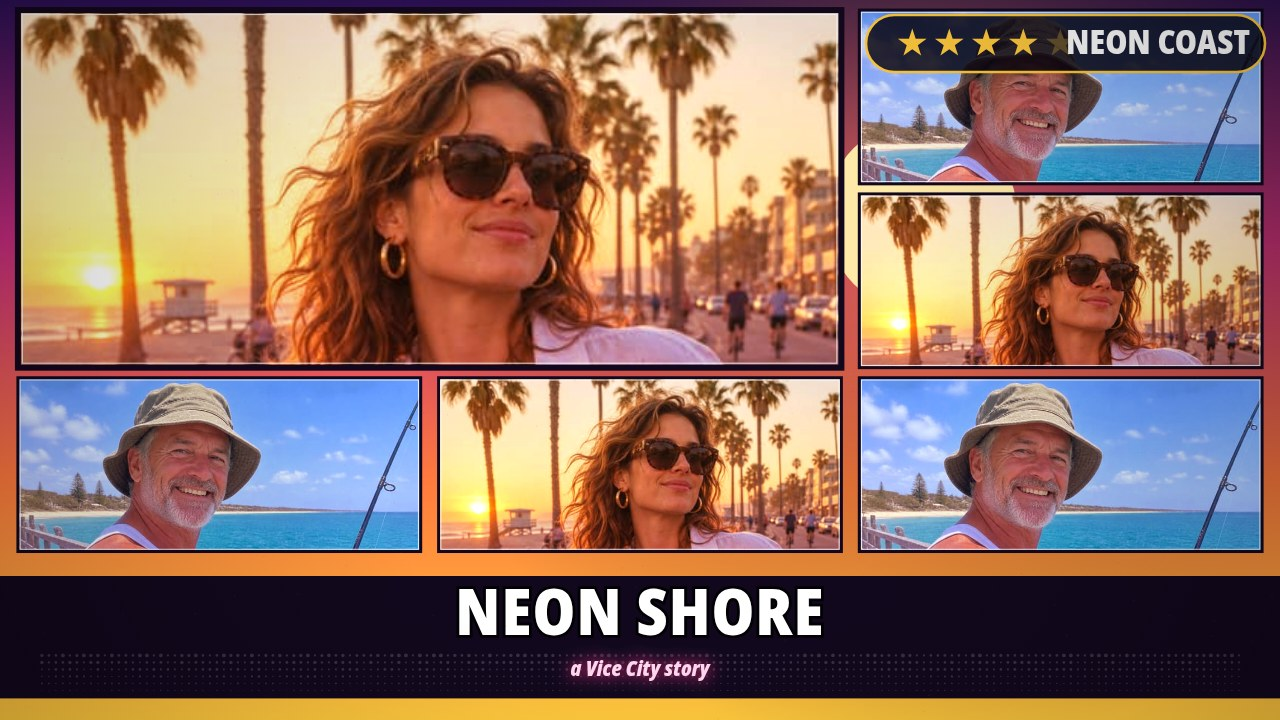
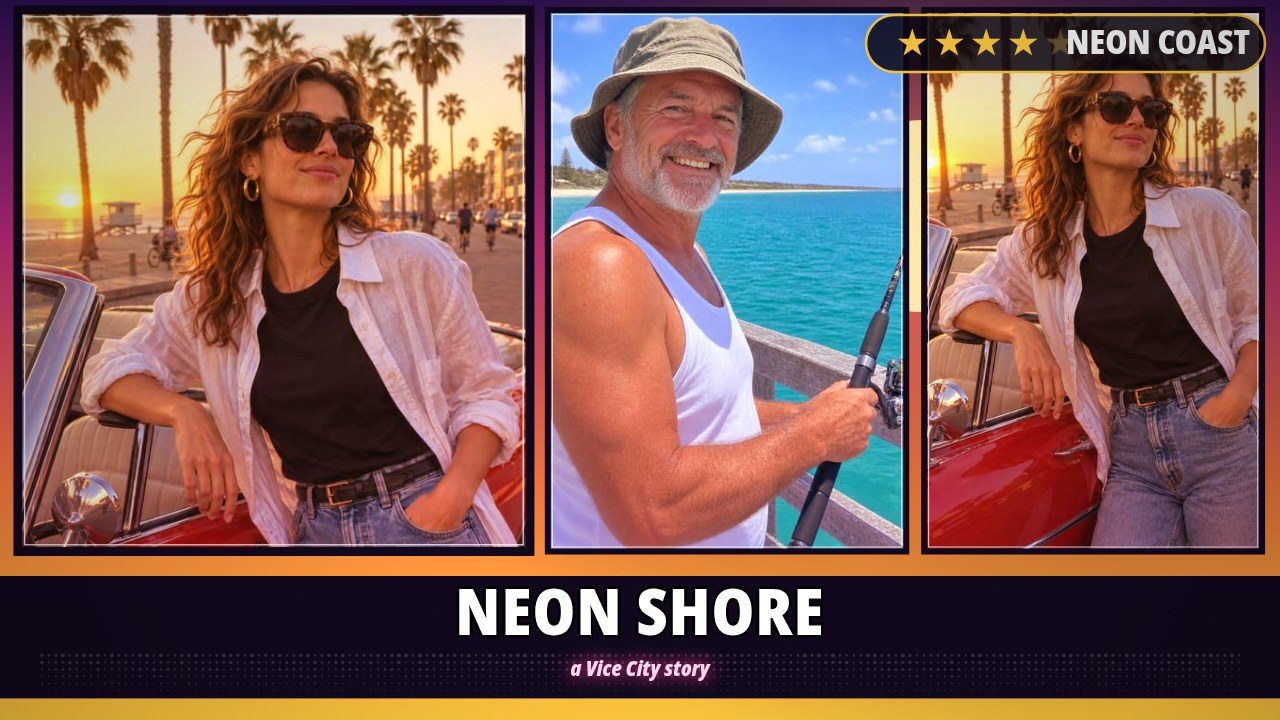
Car Hero cover: 3 boxes, big hero panel with the red convertible

diff --git a/app/src/layouts.js b/app/src/layouts.js
@@ -140,6 +140,27 @@ export const LAYOUTS = [
       };
     },
   },
+  {
+    id: 'carhero',
+    name: 'Car Hero',
+    blurb: 'One big ride, two faces',
+    build(W, H) {
+      const g = 0.014;
+      const top = 0.78;
+      const h = top - g * 2;
+      // One big hero panel (the boulevard photo: near-square, so the red
+      // convertible and the face both survive the crop) plus two tall
+      // side panels. Three boxes total.
+      return {
+        slots: [
+          slot('hero', g, g, 0.40, h, { photo: 0 }),
+          slot('b', 0.428, g, 0.28, h, { photo: 1 }),
+          slot('c', 0.722, g, 0.264, h, { photo: 0 }),
+        ],
+        title: bandedTitle(0.80, 0.17),
+      };
+    },
+  },
 ];
 
 export function layoutById(id) {

diff --git a/app/src/state.js b/app/src/state.js
@@ -13,7 +13,7 @@ export const TITLE_COLORS = ['#ffffff', '#ffc93d', '#ff2e88', '#22e6c8', '#12081
 export const PRESETS = [
   {
     name: 'Neon Shore',
-    layout: 'nine', grade: 'sunset',
+    layout: 'carhero', grade: 'sunset',
     title: 'NEON SHORE', subtitle: 'a Vice City story', stars: 4,
   },
   {
@@ -30,7 +30,7 @@ export const PRESETS = [
 
 export function defaultState() {
   return {
-    layout: 'nine',
+    layout: 'carhero',
     grade: 'sunset',
     title: 'Neon Shore',
     subtitle: 'a Vice City story',

diff --git a/app/src/shots.js b/app/src/shots.js
@@ -12,7 +12,7 @@ function param(query, key, fallback) {
 }
 
 export async function runShot(shot, query, api) {
-  const layout = param(query, 'layout', 'nine');
+  const layout = param(query, 'layout', 'carhero');
   const grade = param(query, 'grade', 'sunset');
   const title = param(query, 'title', 'Neon Shore');
   const subtitle = param(query, 'subtitle', 'a Vice City story');
